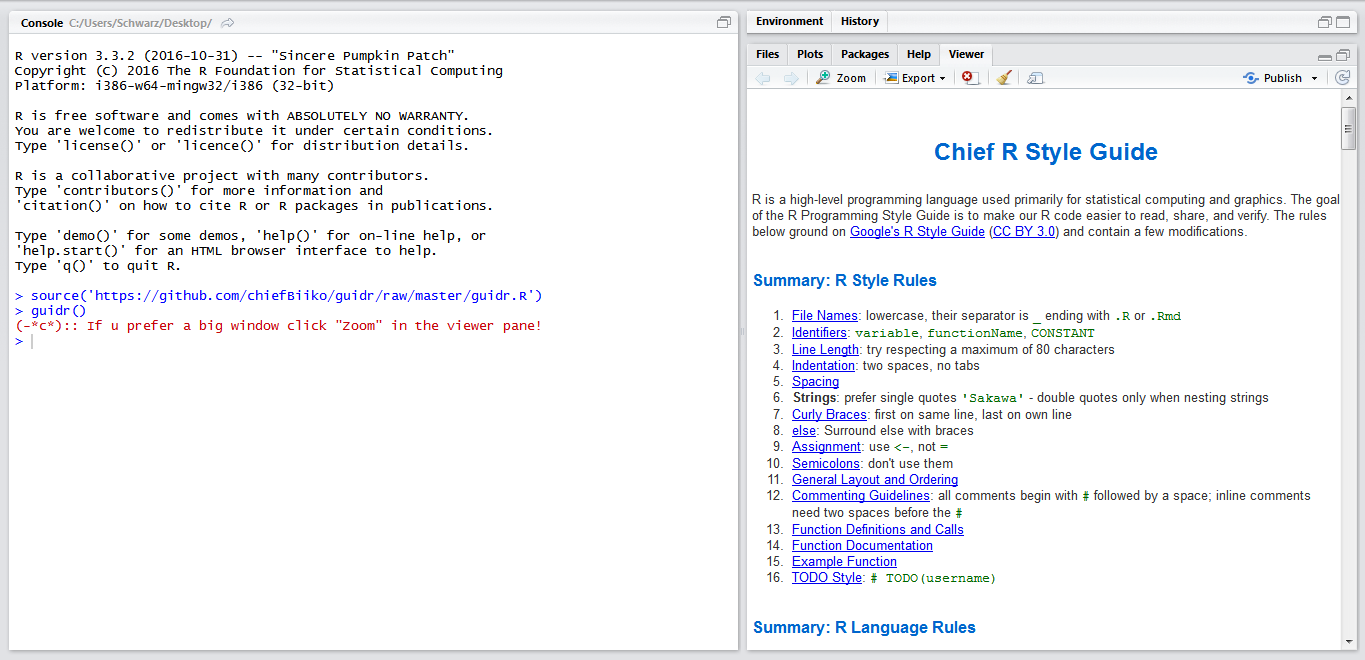
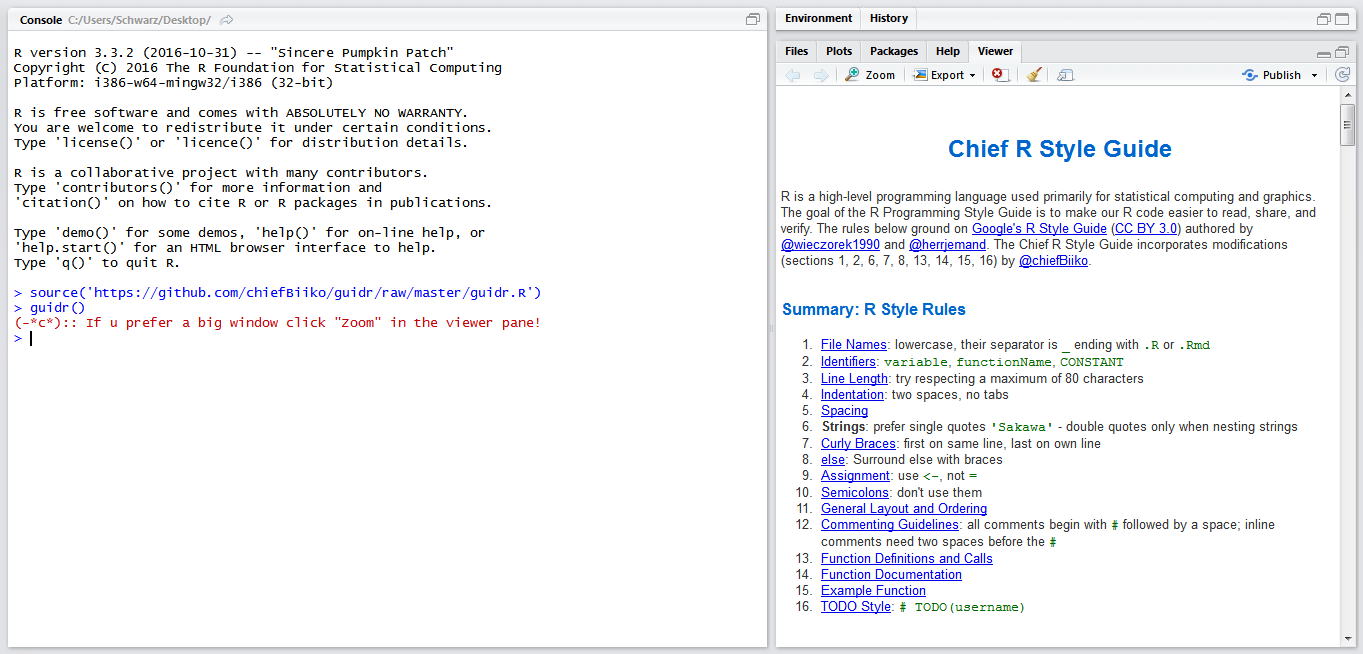
new shot

Changed region(s): [[0.0, 0.0, 1.0, 1.0], [0.6779, 0.2141, 0.8628, 0.2446]]

diff --git a/guidr.html b/guidr.html
@@ -161,7 +161,7 @@
       R is a high-level programming language used primarily for
       statistical computing and graphics. The goal of the R
       Programming Style Guide is to make our R code easier to read,
-      share, and verify. The rules below ground on <a href="https://google.github.io/styleguide/Rguide.xml">Google's R Style Guide</a> (<a href="https://creativecommons.org/licenses/by/3.0/">CC BY 3.0</a>) and contain a few modifications.
+      share, and verify. The rules below ground on <a href="https://google.github.io/styleguide/Rguide.xml">Google's R Style Guide</a> (<a href="https://creativecommons.org/licenses/by/3.0/">CC BY 3.0</a>) authored by <a href="https://github.com/wieczorek1990">@wieczorek1990</a> and <a href="https://github.com/herrjemand">@herrjemand</a>. The Chief R Style Guide incorporates modifications (sections 1, 2, 6, 7, 8, 13, 14, 15, 16) by <a href="https://github.com/chiefBiiko">@chiefBiiko</a>.
     </p>
 
     <h2>Summary: R Style Rules</h2>

diff --git a/README.md b/README.md
@@ -11,6 +11,6 @@ guidr()
 
 #### Credit
 
-Based on [Google's R Style Guide](https://google.github.io/styleguide/Rguide.xml) ([CC BY 3.0](https://creativecommons.org/licenses/by/3.0/legalcode)) authored by [@wieczorek1990](https://github.com/wieczorek1990) and [@herrjemand](https://github.com/herrjemand).
+Based on [Google's R Style Guide](https://google.github.io/styleguide/Rguide.xml) ([CC BY 3.0](https://creativecommons.org/licenses/by/3.0/)) authored by [@wieczorek1990](https://github.com/wieczorek1990) and [@herrjemand](https://github.com/herrjemand).
 
 The Chief R Style Guide incorporates modifications (sections 1, 2, 6, 7, 8, 13, 14, 15, 16) by @chiefBiiko.
